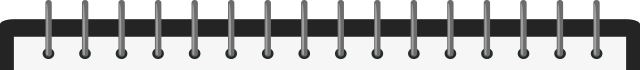
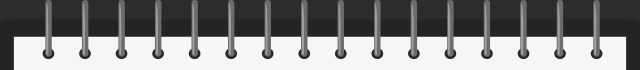
bắt đầu làm trang psdtowebsite

Changed region(s): [[0.0, 0.0, 1.0, 0.3143]]

diff --git a/css/style.easynfast.css b/css/style.easynfast.css
@@ -17,7 +17,7 @@
     position: fixed;
     top: 0;
     width: 100%;
-    z-index: 99;
+    z-index: 99998;
 }
 .site-title-wrapper {
     height: 80px;
@@ -288,7 +288,7 @@
     margin-top: 65px;
     overflow: auto;
 }
-.about-us-wrapper > div > h2 {
+.h2-title, .about-us-wrapper > div > h2 {
     border-bottom: 1px dotted #F6F6F6;
     font-size: 35px;
     margin-bottom: 20px;
@@ -348,4 +348,67 @@
 .sub-info.fright > img {
     padding-left: 10%;
     width: 90%;
+}
+.double-layer-wrapper {
+    background: none repeat scroll 0 0 #252525;
+    margin: 0 auto;
+    width: 925px;
+}
+.double-layer-wrapper, .double-layer-wrapper > div:first-child {
+    border: 2px solid #1A1A1A;
+    border-radius: 15px;
+    overflow: visible;
+    position: relative;
+}
+.what-psd-to-website {
+    background-color: #2C2C2C;
+    left: -5px;
+    padding: 3%;
+    top: -5px;
+}
+.what-psd-to-website .bx-prev {
+    background-image: url("../images/theme/slider-vertical-line.png"), url("../images/theme/slider-icon-navigation.png");
+    background-position: right center, 0 center;
+    height: 170px !important;
+    margin: 0 !important;
+    padding: 0;
+    top: 0 !important;
+    width: 21px !important;
+}
+.what-psd-to-website .bx-next {
+    background-image: url("../images/theme/slider-vertical-line.png"), url("../images/theme/slider-icon-navigation.png");
+    background-position: 0 center, right center;
+    height: 170px !important;
+    margin: 0 !important;
+    padding: 0;
+    top: 0 !important;
+    width: 21px !important;
+}
+.what-psd-to-website .bx-prev:hover {
+    background-position: right center, 0 center;
+}
+.what-psd-to-website .bx-next:hover {
+    background-position: 0 center, right center;
+}
+.promise-note-list {
+    background-image: url("../images/theme/bg/bg-promise-top.png"), url("../images/theme/bg/bg-promise-bottom.png"), url("../images/theme/bg/bg-promise-center.png");
+    background-position: center top, center bottom, 0 center;
+    background-repeat: no-repeat, no-repeat, repeat;
+    margin: 40px auto 0;
+    padding: 100px 50px 60px;
+    width: 540px;
+}
+.psd-to-website-wrapper .our-promise {
+}
+.promise-note-list > li {
+    background-image: url("../images/theme/icon/icon-psdtowebsite.png");
+    background-position: -70px center;
+    background-repeat: no-repeat;
+    color: #000000;
+    line-height: 35px;
+    margin-bottom: 20px;
+    padding-left: 50px;
+}
+.promise-note-list > li:last-child {
+    margin-bottom: 0;
 }

diff --git a/js/main.js b/js/main.js
@@ -1,5 +1,24 @@
 /**
  * *********************************************
+ * Methods Summary: Google Analytics Tracking
+ * *********************************************
+ */
+(function(i, s, o, g, r, a, m) {
+    i['GoogleAnalyticsObject'] = r;
+    i[r] = i[r] || function() {
+        (i[r].q = i[r].q || []).push(arguments);
+    }, i[r].l = 1 * new Date();
+    a = s.createElement(o),
+            m = s.getElementsByTagName(o)[0];
+    a.async = 1;
+    a.src = g;
+    m.parentNode.insertBefore(a, m);
+})(window, document, 'script', '//www.google-analytics.com/analytics.js', 'ga');
+
+ga('create', 'UA-44157118-1', 'easynfast.net');
+ga('send', 'pageview');
+/**
+ * *********************************************
  * Methods Summary: Scroll methods set to social like
  * *********************************************
  */
@@ -86,7 +105,6 @@ $(document).ready(function() {
         $('.option-services').toggle();
     });
 });
-
 /**
  * *********************************************
  * Methods Summary: Setup Slider with 800px width
@@ -97,5 +115,13 @@ $(document).ready(function() {
         auto: true,
         controls: true,
         page: false
+    });
+});
+$(document).ready(function() {
+    $('.slider-300').bxSlider({
+        auto: true,
+        controls: true,
+        pager: false,
+        pause: 5000
     });
 });

diff --git a/style.css b/style.css
@@ -134,7 +134,7 @@ i {
     position: fixed;
     right: 0;
     top: 0;
-    z-index: 100;
+    z-index: 99999;
 }
 .icon-preloading {
     margin: auto;
@@ -146,6 +146,12 @@ i {
 }
 #main-content {
     padding: 65px 0 150px;
+}
+#main-content > div > div {
+    margin-top: 60px;
+}
+#main-content > div > div:first-child {
+    margin-top: 0;
 }
 #footer {
     color: #2C2C2C;

diff --git a/css/jquery.bxslider.css b/css/jquery.bxslider.css
@@ -6,6 +6,7 @@
 }
 .bx-wrapper img {
     display: block;
+    margin: 0 auto;
     max-width: 100%;
 }
 .bx-wrapper .bx-viewport {

diff --git a/page-convert-psd-to-website.php b/page-convert-psd-to-website.php
@@ -1,8 +1,12 @@
 <?php
-include_once 'seoSupport.php';
-$underDevelopment = true;
+include_once "seoSupport.php";
+$underDevelopment = false;
 
-$titleSeo = "";
+global $imagePath;
+global $imageIconPath;
+global $bannerImage;
+
+$bannerImage = "";
 $keywordSeo = "";
 $descriptionSeo = "";
 $imageSeo = "";
@@ -10,12 +14,45 @@ $imageSeo = "";
 get_header();
 ?>
 <div id="main-content" <?php
-     if ($underDevelopment) {
-         echo 'class="under-development"';
-     }
-     ?>>
+if ($underDevelopment) {
+    echo 'class="under-development"';
+}
+?>>
          <?php if (!$underDevelopment) : ?>
-        Do your things here
+        <div class="psd-to-website-wrapper">
+            <div class="double-layer-wrapper">
+                <div class="what-psd-to-website">
+                    <div class="main-info fleft">
+                        <h2 class="h2-title">What is Convert Psd to Website?</h2>
+                        <p>
+                            Convert PSD to Website mean that someone already has a design of their website but doesn’t know how to code it. They will have to look for someone who can convert that design from an image into a live website, then that progress is called “Convert PSD to WEBSITE”…
+                        </p>
+                    </div>
+                    <div class="sub-info fright">
+                        <ul class="slider-300">
+                            <li><img src="<?php echo $imagePath; ?>slider-psd-to-website-1.png" alt="From a image with psd format" width="175" height="170"/></li>
+                            <li><img src="<?php echo $imagePath; ?>slider-psd-to-website-2.png" alt="Convert psd into html code" width="175" height="170"/></li>
+                            <li><img src="<?php echo $imagePath; ?>slider-psd-to-website-3.png" alt="Upload that html code online and you have website" width="175" height="170"/></li>
+                        </ul>
+                    </div>
+                    <div class="clear"></div>
+                </div>
+            </div>
+
+            <div class="our-promise">
+                <h2 class="h2-title"><span class="icon-thumbsup"></span>Our Promise</h2>
+                <ul class="promise-note-list">
+                    <li>Lorem ipsum dolor sit amet, consectetur adipisicing elit</li>
+                    <li>Lorem ipsum dolor sit amet, consectetur adipisicing elit</li>
+                    <li>Lorem ipsum dolor sit amet, consectetur adipisicing elit</li>
+                    <li>Lorem ipsum dolor sit amet, consectetur adipisicing elit</li>
+                    <li>Lorem ipsum dolor sit amet, consectetur adipisicing elit</li>
+                </ul>
+            </div>
+            <div class="our-offer">
+
+            </div>
+        </div>
     <?php endif; ?>
 </div>
 <?php

diff --git a/page-about-us.php b/page-about-us.php
@@ -2,7 +2,9 @@
 include_once "seoSupport.php";
 $underDevelopment = false;
 
+global $imagePath;
 global $bannerImage;
+
 $bannerImage = "";
 $keywordSeo = "";
 $descriptionSeo = "";
@@ -21,7 +23,6 @@ if ($underDevelopment) {
                 <h2>EasynFast's Creation</h2>
                 <div class="sub-info fright">
                     <img src="<?php
-                    global $imagePath;
                     echo $imagePath;
                     ?>about-us-letrinhbaoanh.png" 
                          alt="Le Trinh Bao Anh (zBaoAnhLe) is the founder of EasynFast.net."/>
